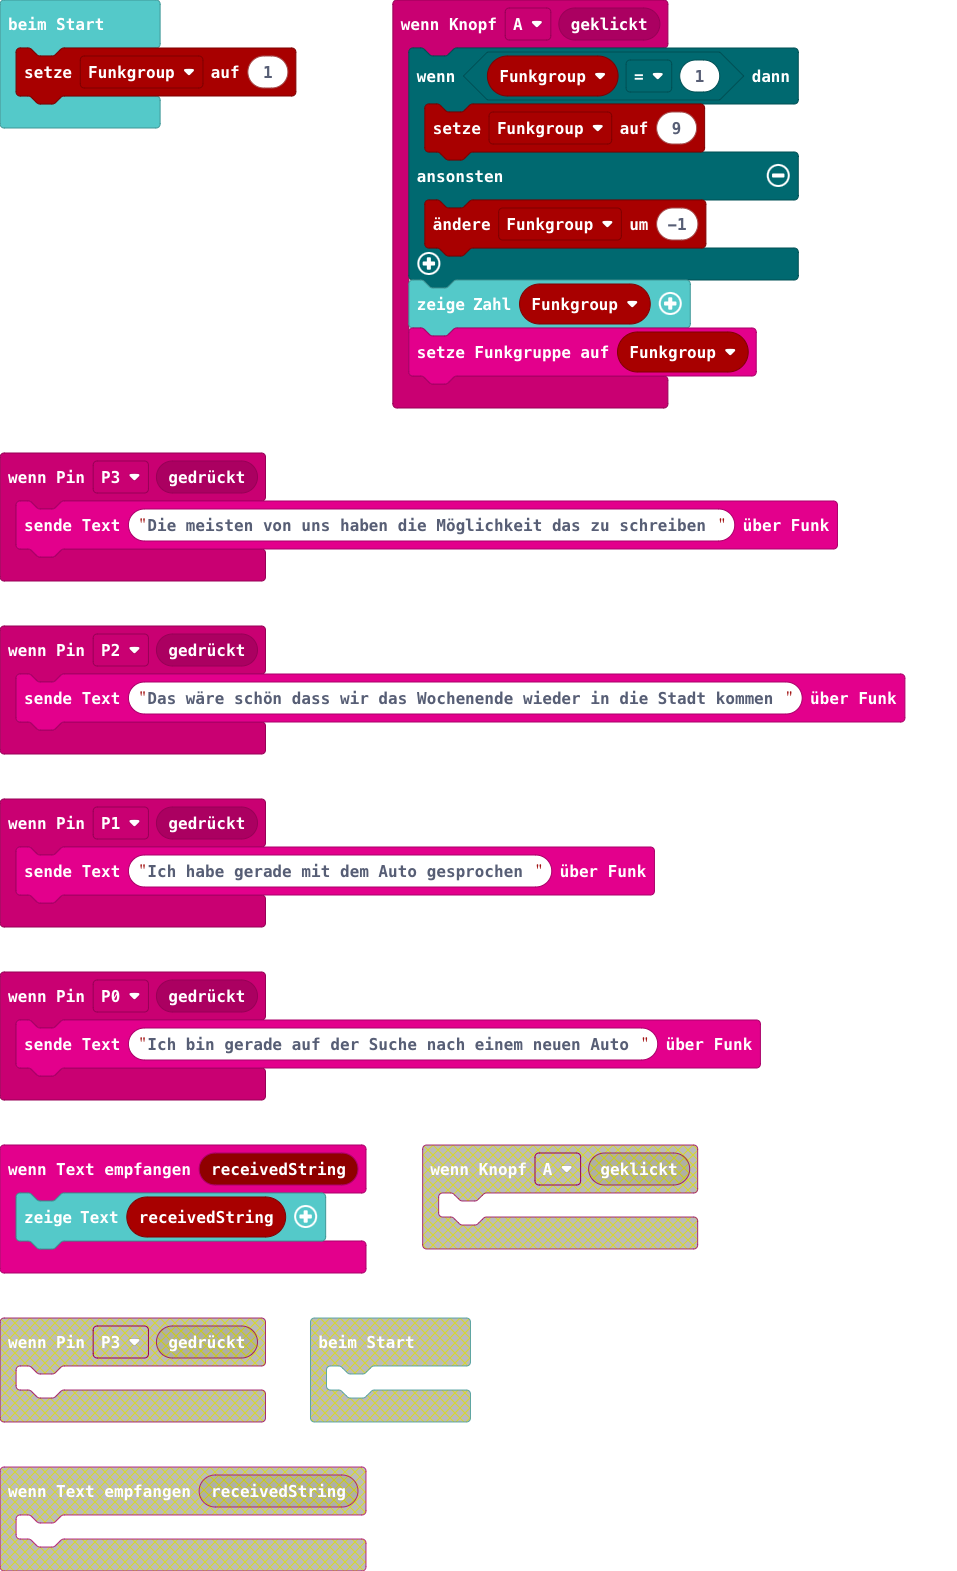
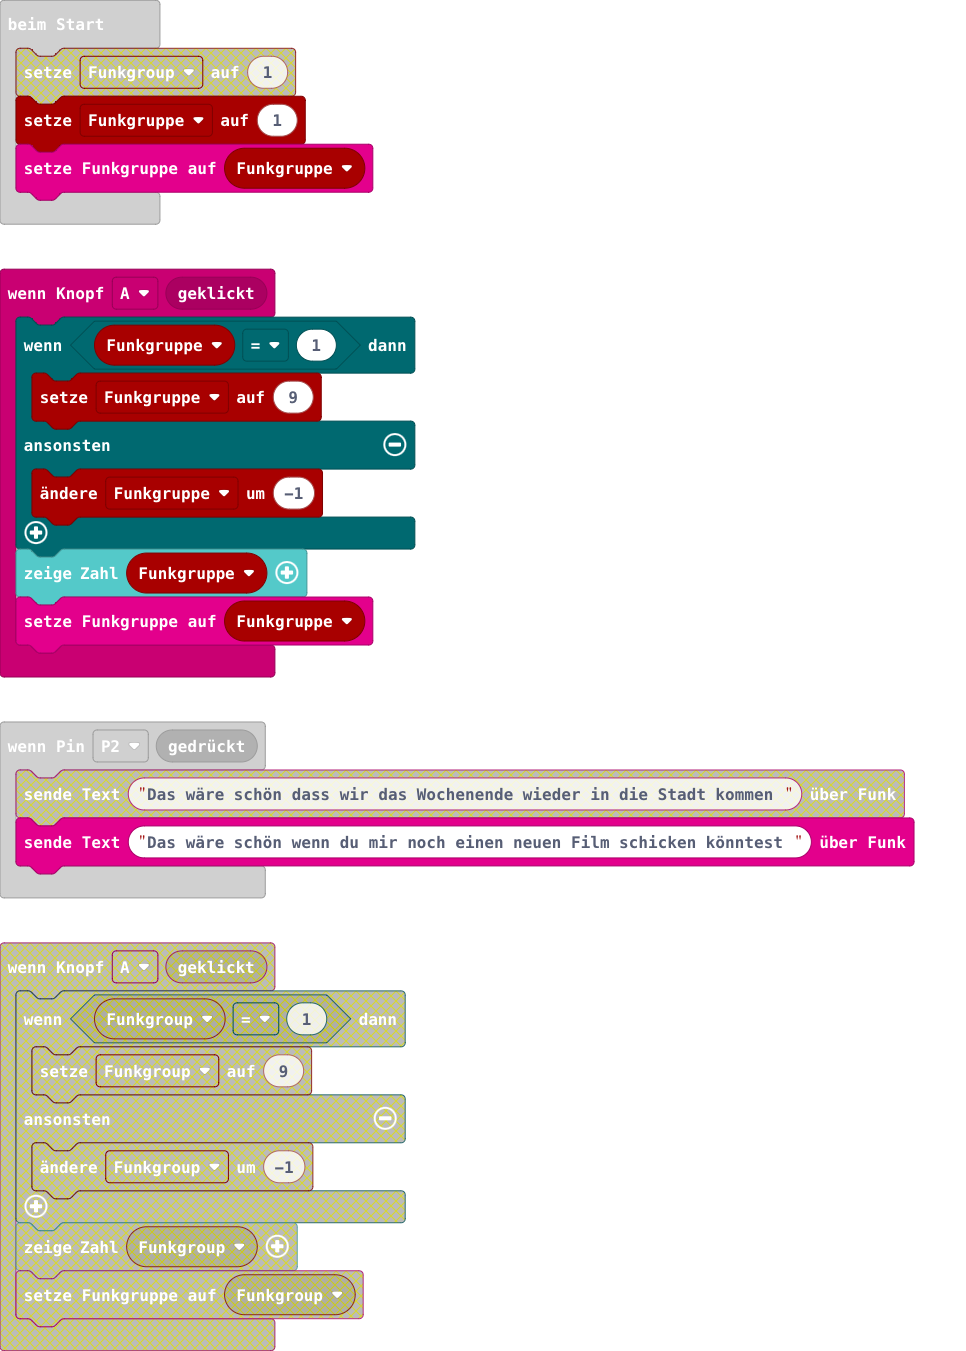
Aktualisiere main.blocks, main.ts

diff --git a/main.ts b/main.ts
@@ -2,13 +2,13 @@ input.onPinTouchEvent(TouchPin.P1, input.buttonEventDown(), function () {
     radio.sendString("Ich habe gerade mit dem Auto gesprochen ")
 })
 input.onButtonEvent(Button.A, input.buttonEventClick(), function () {
-    if (Funkgroup == 1) {
-        Funkgroup = 9
+    if (Funkgruppe == 1) {
+        Funkgruppe = 9
     } else {
-        Funkgroup += -1
+        Funkgruppe += -1
     }
-    basic.showNumber(Funkgroup)
-    radio.setGroup(Funkgroup)
+    basic.showNumber(Funkgruppe)
+    radio.setGroup(Funkgruppe)
 })
 radio.onReceivedString(function (receivedString) {
     basic.showString(receivedString)
@@ -17,10 +17,11 @@ input.onPinTouchEvent(TouchPin.P0, input.buttonEventDown(), function () {
     radio.sendString("Ich bin gerade auf der Suche nach einem neuen Auto ")
 })
 input.onPinTouchEvent(TouchPin.P2, input.buttonEventDown(), function () {
-    radio.sendString("Das wäre schön dass wir das Wochenende wieder in die Stadt kommen ")
+    radio.sendString("Das wäre schön wenn du mir noch einen neuen Film schicken könntest ")
 })
 input.onPinTouchEvent(TouchPin.P3, input.buttonEventDown(), function () {
     radio.sendString("Die meisten von uns haben die Möglichkeit das zu schreiben ")
 })
-let Funkgroup = 0
-Funkgroup = 1
+let Funkgruppe = 0
+Funkgruppe = 1
+radio.setGroup(Funkgruppe)
